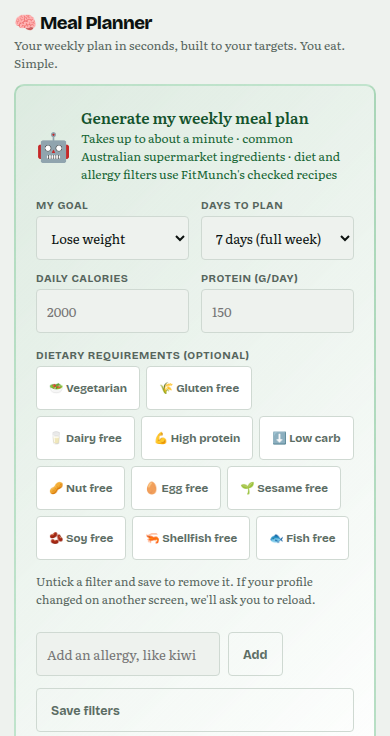
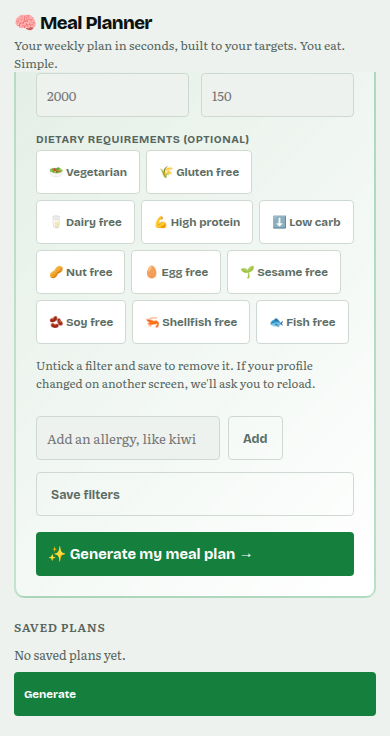
Treat a failed Meal Planner load as a retry, not an empty list.
loadMealPlans now uses the same reader as Home, so a 500, an empty 304, an abort, or a body that is not a plan list shows Try again and leaves a list that was already on screen. The empty sentence appears only after a successful empty load. The Generate focus ring is the dark green outline immediately, and the AI consent privacy link is 44px tall.

diff --git a/public/app.html b/public/app.html
@@ -75,7 +75,7 @@ body{font-family:'Literata',Georgia,serif;background:var(--paper);color:var(--in
 .scroll-body::-webkit-scrollbar{width:4px}
 .scroll-body::-webkit-scrollbar-thumb{background:var(--border2);border-radius:4px}
 
-.btn{display:inline-flex;align-items:center;gap:5px;padding:7px 14px;border-radius:4px;font-size:.78rem;font-weight:700;cursor:pointer;border:none;transition:all .15s}
+.btn{display:inline-flex;align-items:center;gap:5px;padding:7px 14px;border-radius:4px;font-size:.78rem;font-weight:700;cursor:pointer;border:none;transition:background-color .15s,color .15s,border-color .15s}
 .btn-green{background:var(--leaf);color:#fff}.btn-green:hover{background:var(--leaf2)}
 .btn-ghost2{background:transparent;color:var(--mute);border:1px solid var(--line)}.btn-ghost2:hover{color:var(--ink);border-color:var(--mute2)}
 .btn-red{background:rgba(194,59,59,.08);color:var(--red);border:1px solid rgba(194,59,59,.2)}.btn-red:hover{background:rgba(194,59,59,.15)}
@@ -387,7 +387,7 @@ body{font-family:'Literata',Georgia,serif;background:var(--paper);color:var(--in
 @media (pointer:coarse), (max-width:1024px) {
  .nav-logo{min-height:44px;display:flex;align-items:center}
  .sidebar .sb-item,.sidebar .nav-item,.btn-logout,.metric-cta,.btn,.btn-sm,.nav-btn,.diet-tag,.mob-nav-btn,.mob-more-btn,.modal-close,button,select,input:not([type=hidden]):not([type=checkbox]):not([type=radio]),[role=button]{min-height:44px;min-width:44px}
- .sidebar .sb-item,.sidebar .nav-item{display:flex;align-items:center}
+ .sidebar .sb-item,.sidebar .nav-item{display:flex;align-items:center;flex-shrink:0}
  a[href].btn,a[href][class*="cta"],[onclick]:not(div):not(tr):not(li){min-height:44px;min-width:44px;display:inline-flex;align-items:center}
  input[type=checkbox]:not(.fm-switch),input[type=radio]{width:24px;height:24px;margin:10px}
  .shop-cb,.shop-cb.checked{width:44px;height:44px;margin:-10px;border:10px solid transparent;background-clip:padding-box;box-shadow:inset 0 0 0 1.5px var(--border2);border-radius:13px}
@@ -407,6 +407,8 @@ body{font-family:'Literata',Georgia,serif;background:var(--paper);color:var(--in
 .modal-overlay{visibility:hidden}
 .modal-overlay.open{visibility:visible}
 .modal input:focus-visible,.modal select:focus-visible,.modal textarea:focus-visible,input:focus-visible,select:focus-visible,textarea:focus-visible,button:focus-visible,a:focus-visible,[tabindex]:focus-visible{outline:2px solid var(--leaf2);outline-offset:2px}
+#mp-saved-generate:focus-visible,#mp-saved-retry:focus-visible{outline:2px solid #166534;outline-offset:2px}
+#ai-consent-privacy{display:inline-flex;align-items:center;min-height:44px;padding:10px 8px;box-sizing:border-box}
 /* Privacy and AI consent modals: above onboarding, 44px targets, a real switch. */
 #modal-ai-consent{z-index:400}
 #modal-ai-consent .btn,#modal-privacy .btn,#modal-privacy .modal-close{min-height:44px;min-width:44px}
@@ -787,6 +789,10 @@ html.fm-authed #app-gate{display:none}
  <div id="mp-saved-empty" class="home-plan-empty" hidden>
  <p>No saved plans yet.</p>
  <button type="button" class="btn btn-green btn-sm" id="mp-saved-generate" onclick="generateMealPlan()">Generate</button>
+ </div>
+ <div id="mp-saved-error" class="home-plan-empty" hidden>
+ <p>Couldn't load your week, try again</p>
+ <button type="button" class="btn btn-green btn-sm" id="mp-saved-retry" onclick="loadMealPlans()">Try again</button>
  </div>
  <div class="plan-grid" id="meal-plans-grid"></div>
  </div>
@@ -1407,7 +1413,7 @@ html.fm-authed #app-gate{display:none}
 <div class="modal-overlay" id="modal-ai-consent">
  <div class="modal" role="dialog" aria-labelledby="ai-consent-title">
  <div class="modal-title" id="ai-consent-title">Allow AI features?</div>
- <div style="font-size:.85rem;color:var(--text2);line-height:1.5">Coach, meal plans, workout plans, reviews and receipt scans send the details you enter (and a receipt photo for scans) to an AI provider to produce your answer. Nothing is sent until you allow it. You can change this any time in Privacy. <a href="/privacy" target="_blank" rel="noopener">Privacy policy</a></div>
+ <div style="font-size:.85rem;color:var(--text2);line-height:1.5">Coach, meal plans, workout plans, reviews and receipt scans send the details you enter (and a receipt photo for scans) to an AI provider to produce your answer. Nothing is sent until you allow it. You can change this any time in Privacy. <a id="ai-consent-privacy" href="/privacy" target="_blank" rel="noopener">Privacy policy</a></div>
  <div class="modal-actions">
  <button class="btn btn-ghost2" id="ai-consent-no">Not now</button>
  <button class="btn btn-green" id="ai-consent-yes">Allow</button>
@@ -2374,13 +2380,30 @@ async function loadMealPlans() {
  if (gg && S.goals.fitnessGoal) gg.value = S.goals.fitnessGoal;
  }
  // Meals you typed or edited are kept as entered; the server's allergenWarnings (one per meal) drive the badges.
- const r = await API('/meal-plans');
- S.mealPlans = r.plans || [];
+ // Same reader as Home: a 500, an empty 304, an abort, or a body that is not { success, plans } is a retry.
+ // A failed refresh leaves the list already on screen. "No saved plans yet." is only a successful empty load.
  const grid = document.getElementById('meal-plans-grid');
  const section = document.getElementById('mp-saved-section');
  const empty = document.getElementById('mp-saved-empty');
+ const err = document.getElementById('mp-saved-error');
  if (!grid) return;
- if (!S.mealPlans.length) {
+ const parsed = await readMealPlans();
+ if (!parsed || parsed.kind === 'error' || parsed.kind === 'refetch') {
+  if (section) section.style.display = '';
+  if (empty) empty.hidden = true;
+  if (err) err.hidden = false;
+  return;
+ }
+ const plans = parsed.body && Array.isArray(parsed.body.plans) ? parsed.body.plans : null;
+ if (!plans) {
+  if (section) section.style.display = '';
+  if (empty) empty.hidden = true;
+  if (err) err.hidden = false;
+  return;
+ }
+ S.mealPlans = plans;
+ if (err) err.hidden = true;
+ if (!plans.length) {
   grid.innerHTML = '';
   if (section) section.style.display = '';
   if (empty) empty.hidden = false;

diff --git a/test_home_week_rendered.js b/test_home_week_rendered.js
@@ -728,4 +728,108 @@ maybe('Save and build my week -> Home shows the week, the targets and a one-tap 
       await ctx.close();
     }
   });
+
+  for (const width of [320, 390, 1440]) {
+    it(`${width}px: Meal Planner 500, empty 304 and abort stay a retry; a successful empty load still says there are none`, async () => {
+      const plan = engine.buildPlan({ calories: 2000, protein: 130, days: 7, dietary: [] });
+      db = { profile: { targetCalories: 2000, targetProtein: 130 }, profileSaves: [], plans: [], puts: 0, shopping: 0, warnings: [], mealStatus: 500 };
+      const ctx = await browser.newContext({ viewport: { width, height: width >= 1000 ? 900 : 844 }, hasTouch: width < 1000 });
+      await ctx.addInitScript(() => { localStorage.setItem('fm_token', 't.t'); sessionStorage.setItem('fm_goals_prompted', '1'); });
+      const p = await ctx.newPage();
+      await p.goto(`${base}/app.html`);
+      await p.waitForSelector('#home-mealplan-error');
+      await p.evaluate(() => nav('meal-plans'));
+      await p.waitForSelector('#mp-saved-error:not([hidden])');
+      expect(await p.locator('#mp-saved-empty').isVisible()).toBe(false);
+      expect(await p.textContent('#mp-saved-error')).toMatch(/Couldn't load your week, try again/);
+
+      db.mealStatus = 0;
+      db.meal304 = 'always';
+      await p.evaluate(() => { S_mealPlansCache = null; return loadMealPlans(); });
+      expect(await p.locator('#mp-saved-empty').isVisible()).toBe(false);
+      expect(await p.locator('#mp-saved-error').isVisible()).toBe(true);
+
+      db.meal304 = null;
+      db.mealAbort = true;
+      await p.evaluate(() => loadMealPlans());
+      expect(await p.locator('#mp-saved-empty').isVisible()).toBe(false);
+      expect(await p.locator('#mp-saved-error').isVisible()).toBe(true);
+      expect(await p.locator('#meal-plans-grid .plan-card').count()).toBe(0);
+
+      db.mealAbort = false;
+      db.plans = [{ id: 1, name: 'Your first week', meals: plan.days }];
+      await p.evaluate(() => { S_mealPlansCache = null; return loadMealPlans(); });
+      await p.waitForSelector('#meal-plans-grid .plan-card');
+      expect(await p.textContent('#meal-plans-grid')).toMatch(/Your first week/);
+      expect(await p.locator('#mp-saved-empty').isVisible()).toBe(false);
+
+      db.mealStatus = 500;
+      await p.evaluate(() => loadMealPlans());
+      expect(await p.locator('#mp-saved-empty').isVisible()).toBe(false);
+      expect(await p.locator('#mp-saved-error').isVisible()).toBe(true);
+      expect(await p.textContent('#meal-plans-grid')).toMatch(/Your first week/);
+
+      db.mealStatus = 0;
+      db.meal304 = 'always';
+      await p.evaluate(() => loadMealPlans());
+      expect(await p.locator('#mp-saved-empty').isVisible()).toBe(false);
+      expect(await p.textContent('#meal-plans-grid')).toMatch(/Your first week/);
+
+      db.meal304 = null;
+      db.mealAbort = true;
+      await p.evaluate(() => loadMealPlans());
+      expect(await p.locator('#mp-saved-empty').isVisible()).toBe(false);
+      expect(await p.locator('#mp-saved-error').isVisible()).toBe(true);
+      expect(await p.textContent('#meal-plans-grid')).toMatch(/Your first week/);
+
+      db.mealAbort = false;
+      db.plans = [];
+      await p.evaluate(() => { S_mealPlansCache = null; return loadMealPlans(); });
+      await p.waitForSelector('#mp-saved-empty:not([hidden])');
+      expect(await p.locator('#mp-saved-empty').isVisible()).toBe(true);
+      expect(await p.locator('#mp-saved-error').isVisible()).toBe(false);
+      expect(await p.textContent('#mp-saved-empty')).toMatch(/No saved plans yet/);
+      expect(await p.locator('#meal-plans-grid .plan-card').count()).toBe(0);
+
+      if (width === 1440) {
+        await p.locator('#mp-saved-generate').focus();
+        const ring = await p.evaluate(() => {
+          const cs = getComputedStyle(document.getElementById('mp-saved-generate'));
+          return { color: cs.outlineColor, width: cs.outlineWidth, style: cs.outlineStyle, offset: cs.outlineOffset };
+        });
+        expect(ring).toEqual({ color: 'rgb(22, 101, 52)', width: '2px', style: 'solid', offset: '2px' });
+      }
+
+      await p.evaluate(() => {
+        const modal = document.querySelector('#modal-ai-consent .modal');
+        modal.style.transition = 'none';
+        document.getElementById('modal-ai-consent').classList.add('open');
+      });
+      const linkH = Math.round((await p.locator('#ai-consent-privacy').boundingBox()).height);
+      expect(linkH).toBeGreaterThanOrEqual(44);
+      expect(await p.evaluate(() => document.documentElement.scrollWidth <= window.innerWidth + 1)).toBe(true);
+      await ctx.close();
+    });
+  }
+
+  it('fine pointer shell rows stay at least 44px at 768 and 1024', async () => {
+    db = { profile: {}, profileSaves: [], plans: [], puts: 0, shopping: 0, warnings: [] };
+    const ctx = await browser.newContext({ viewport: { width: 1024, height: 800 } });
+    await ctx.addInitScript(() => { localStorage.setItem('fm_token', 't.t'); sessionStorage.setItem('fm_goals_prompted', '1'); });
+    const p = await ctx.newPage();
+    await p.goto(`${base}/app.html`);
+    await p.waitForFunction(() => document.documentElement.classList.contains('fm-authed'));
+    for (const width of [768, 1024]) {
+      await p.setViewportSize({ width, height: 800 });
+      const h = await p.evaluate(() => ({
+        row: document.querySelector('#sidebar-client .sb-item').getBoundingClientRect().height,
+        up: document.getElementById('btn-upgrade').getBoundingClientRect().height,
+        log: document.getElementById('pm-log-meal').getBoundingClientRect().height,
+      }));
+      expect(Math.round(h.row)).toBeGreaterThanOrEqual(44);
+      expect(Math.round(h.up)).toBeGreaterThanOrEqual(44);
+      expect(Math.round(h.log)).toBeGreaterThanOrEqual(44);
+    }
+    await ctx.close();
+  });
 });

diff --git a/test_home_week.js b/test_home_week.js
@@ -288,9 +288,15 @@ describe('saved plan meals, both shapes', () => {
     expect(fn('savedPlanMealsHtml')).toContain('FMHomeWeek.flattenPlanMeals');
     expect(fn('loadMealPlans')).toContain('savedPlanMealsHtml(p)');
     const listed = fn('loadMealPlans');
+    expect(listed).toContain('await readMealPlans()');
+    expect(listed).toContain("parsed.kind === 'error'");
     expect(listed).toContain("getElementById('mp-saved-empty')");
-    expect(listed).toContain('empty.hidden = false');
+    expect(listed).toContain("getElementById('mp-saved-error')");
+    expect(listed.indexOf('empty.hidden = false')).toBeGreaterThan(listed.indexOf("parsed.kind === 'error'"));
+    expect(listed).not.toMatch(/S\.mealPlans = r\.plans \|\| \[\]/);
     expect(listed).not.toMatch(/if \(!S\.mealPlans\.length\) \{ if \(section\) section\.style\.display = 'none'/);
+    expect(html).toContain('id="mp-saved-error" class="home-plan-empty" hidden');
+    expect(html).toContain('id="mp-saved-retry" onclick="loadMealPlans()">Try again</button>');
     expect(html).toContain('id="mp-saved-empty" class="home-plan-empty" hidden');
     expect(html).toContain('>No saved plans yet.</p>');
     expect(html).toContain('id="mp-saved-generate" onclick="generateMealPlan()">Generate</button>');

diff --git a/test_app_mobile_layout.js b/test_app_mobile_layout.js
@@ -61,6 +61,7 @@ describe('signed-in app at 390px (no horizontal overflow)', () => {
     const coarse = mediaBlock('pointer:coarse), (max-width:1024px');
     expect(coarse).toMatch(/\.sidebar \.sb-item,/);
     expect(coarse).toMatch(/min-height:44px;min-width:44px/);
+    expect(coarse).toMatch(/\.sidebar \.sb-item,\.sidebar \.nav-item\{display:flex;align-items:center;flex-shrink:0\}/);
     expect(html).toContain('id="pm-log-meal"');
   });
 
@@ -68,6 +69,9 @@ describe('signed-in app at 390px (no horizontal overflow)', () => {
     expect(html).toMatch(/\.home-start-here\{font-size:\.875rem;font-weight:800;[^}]*color:#14532d/);
     expect(html).toContain('id="home-start-here" class="home-start-here">📸 Start here</div>');
     expect(html).not.toMatch(/font-size:\.62rem[^>]*>📸 Start here/);
+    expect(html).toMatch(/#mp-saved-generate:focus-visible,#mp-saved-retry:focus-visible\{outline:2px solid #166534;outline-offset:2px\}/);
+    expect(html).toMatch(/\.btn\{[^}]*transition:background-color \.15s,color \.15s,border-color \.15s\}/);
+    expect(html).toMatch(/#ai-consent-privacy\{display:inline-flex;align-items:center;min-height:44px;padding:10px 8px/);
   });
 
   it('gives phone tap targets 44px and moves Sign out into the More sheet', () => {

diff --git a/test_xss_escape.js b/test_xss_escape.js
@@ -108,7 +108,10 @@ describe('legacy saved rows render inert', () => {
     const src = ['escapeHtml', 'allergenBadgeHtml', 'planMetaHtml', '_renderExList', 'savedPlanSlotLabel', 'savedPlanMealLine', 'savedPlanMealsHtml', 'loadMealPlans'].map(extractAny).join('\n')
       + '\nreturn { _renderExList, loadMealPlans };';
     builder = { day: 1, exercises: [] };
-    api = new Function('S', '_exBuilder', 'API', 'FMHomeWeek', src)({}, builder, async () => reply, require('./public/js/fm-home-week'));
+    api = new Function('S', '_exBuilder', 'API', 'FMHomeWeek', 'readMealPlans', src)({}, builder, async () => reply, require('./public/js/fm-home-week'), async () => {
+      const plans = reply && Array.isArray(reply.plans) ? reply.plans : [];
+      return { kind: plans.length ? 'ok' : 'empty', body: { success: true, plans } };
+    });
   });
 
   test.each(PAYLOADS)('exercise builder list: sets, rest and id %s', (payload) => {
